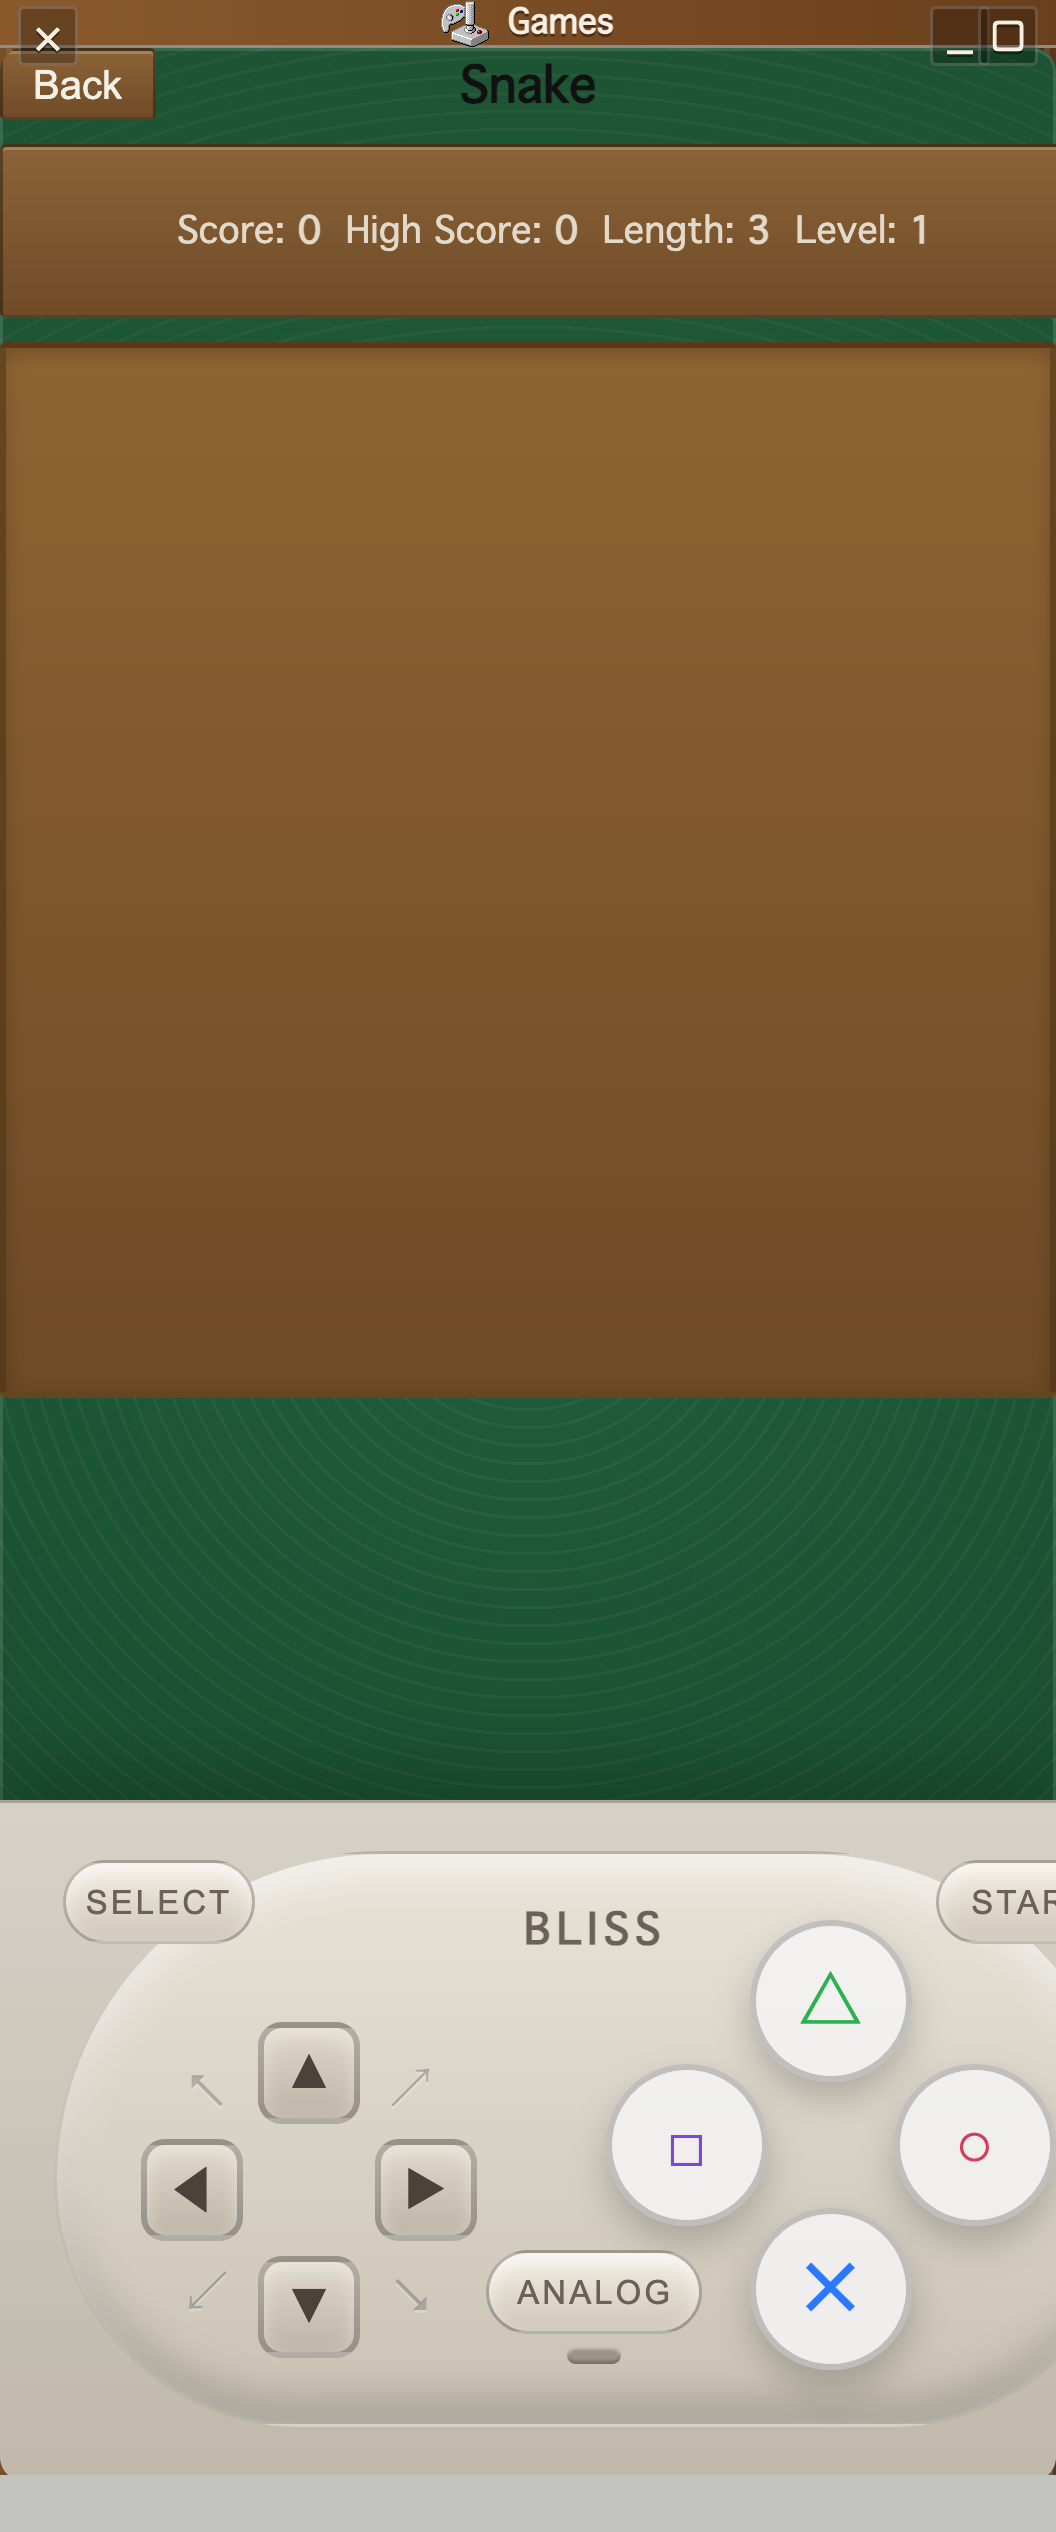
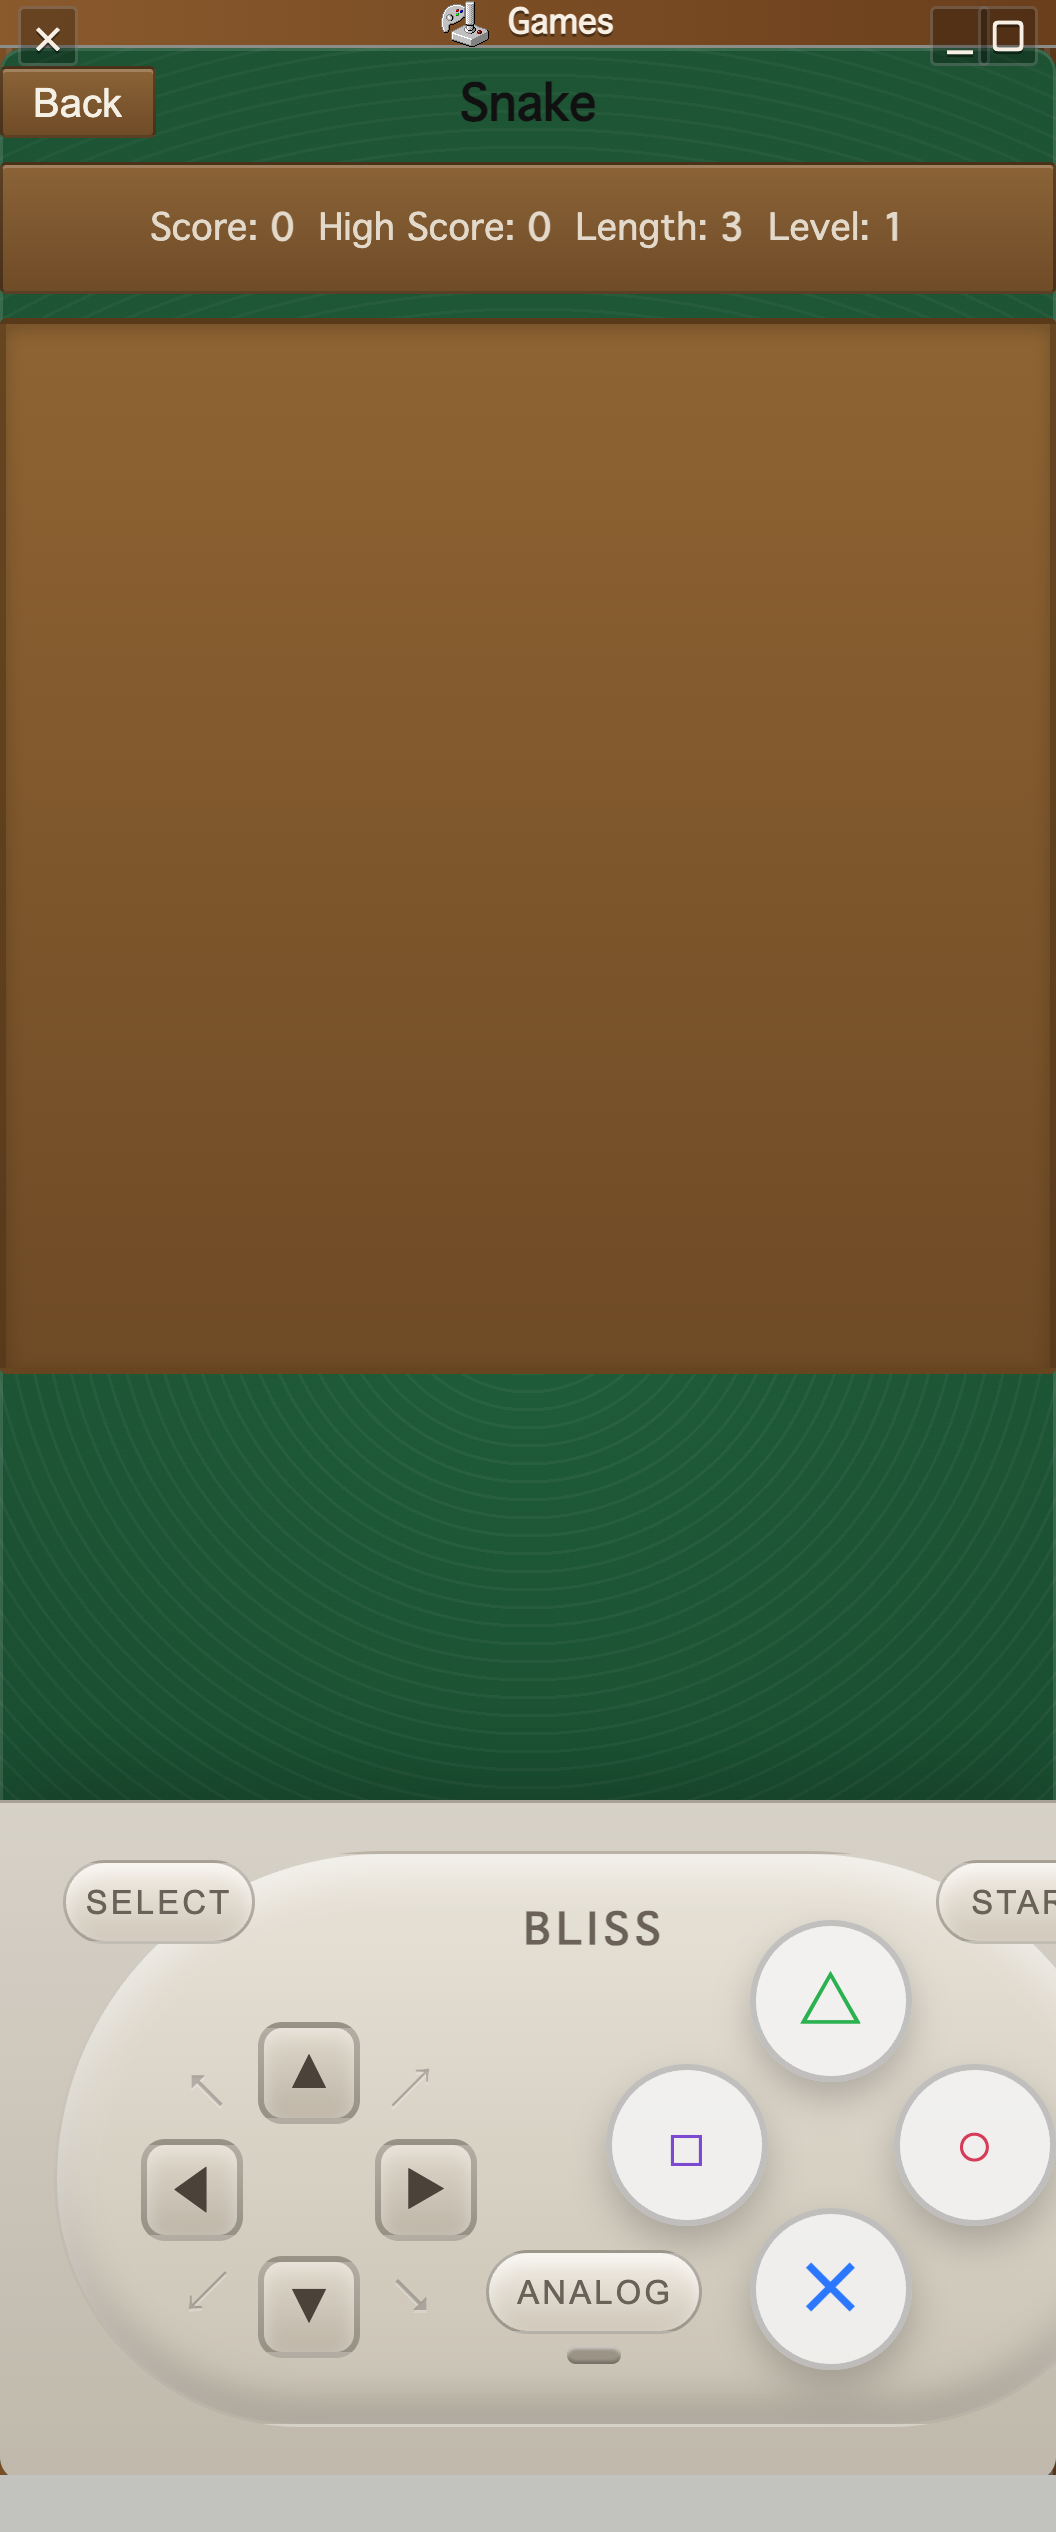
Adjust mobile game UI layout

Changed region(s): [[0.0, 0.0, 1.0, 0.156], [0.0, 0.5304, 1.0, 0.5616]]

diff --git a/index.html b/index.html
@@ -2968,6 +2968,7 @@
         justify-items:stretch;
         row-gap:0;
         width:100%;
+        margin-top:6px;
       }
       :is(#win_games, #win_dope-skate).mobile-game .snake-header .snake-topbar{
         justify-self:start;
@@ -2982,6 +2983,8 @@
         width:100%;
         justify-content:center;
         padding:6px 8px;
+        box-sizing:border-box;
+        align-self:center;
       }
       :is(#win_games, #win_dope-skate) .snake-action-row .btn,
       :is(#win_games, #win_dope-skate) .snake-topbar .btn{
@@ -4652,6 +4655,6 @@
       </div>
     </div>
 
-    <script defer src="./assets/js/bliss98.bundle.js?v=20260211-snake-ui-4"></script>
+    <script defer src="./assets/js/bliss98.bundle.js?v=20260211-snake-ui-5"></script>
   </body>
 </html>

diff --git a/progress.md b/progress.md
@@ -481,3 +481,10 @@ Original prompt (continuação): e crie esses sons dentro da pasta assets/sounds
   - `boardSquare=true`, `canvasSquare=true`, `canvasFillBoard=true`
   - sem overflow na content e sem erros de console.
 - Cache bust atualizado em `index.html`: `bliss98.bundle.js?v=20260211-snake-ui-4`.
+- Refino adicional de Snake mobile (somente mobile):
+  - barra de stats alinhada exatamente ao board/canvas (mesma largura e centro) com `box-sizing:border-box` e `align-self:center`;
+  - header (`Back` + `Snake`) desceu alguns pixels para não encostar na titlebar (`margin-top:6px` em `.snake-header`).
+- Validação mobile Playwright (390x844):
+  - `statsMatchBoardWidth=true`, `statsMatchBoardCenter=true`, `headerHasTopGap=true`.
+- Cache bust atualizado para garantir reload em celular:
+  - `bliss98.bundle.js?v=20260211-snake-ui-5`.
